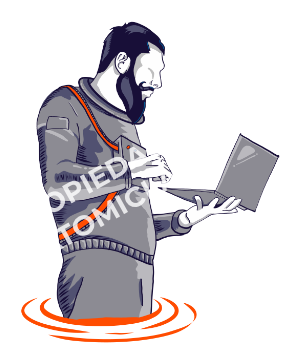
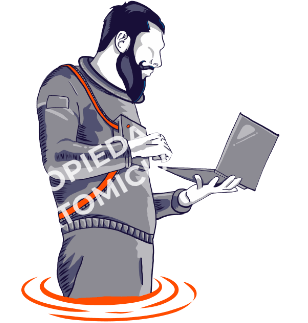
style: :lipstick: update images

Changed region(s): [[0.0584, 0.0, 0.9058, 1.0], [0.6136, 0.6192, 0.6429, 0.6502]]

diff --git a/src/components/FooterHome.jsx b/src/components/FooterHome.jsx
@@ -8,21 +8,27 @@ function FooterHome ({ className }) {
       <main>
         <section>
           <article>
-            <img src={astronautDrawing} alt='Astronaut with a digital tablet and a mouse' />
+            <div>
+              <img src={astronautDrawing} alt='Astronaut with a digital tablet and a mouse' />
+            </div>
             <ul>
               <li>Usamos las tecnologías más modernas.</li>
               <li>Innovamos y creamos proyectos retadores.</li>
             </ul>
           </article>
           <article>
-            <img src={astronautComputer} alt='Astronaut typing with a hand in a laptop' />
+            <div>
+              <img src={astronautComputer} alt='Astronaut typing with a hand in a laptop' />
+            </div>
             <ul>
               <li>¡Trabajamos en equipo rumbo al éxito!</li>
               <li>No tenemos código de vestimenta</li>
             </ul>
           </article>
           <article>
-            <img src={astronautPose} alt='Astronaut posing with a hand' />
+            <div>
+              <img src={astronautPose} alt='Astronaut posing with a hand' />
+            </div>
             <ul>
               <li>Realizamos actividades para tu bienestar.</li>
               <li>¡Tenemos un parque frente a la oficina!</li>

diff --git a/src/components/Body.module.css b/src/components/Body.module.css
@@ -59,3 +59,20 @@
   display: flex;
   align-items: center;
 }
+
+.footerHome main section article {
+  display: flex;
+  flex-direction: column;
+  align-items: center;
+}
+
+.footerHome main section article div {
+  display: flex;
+  justify-content: center;
+  align-items: center;
+  height: 16rem;
+}
+
+.footerHome main section article div img {
+  height: 100%;
+}
